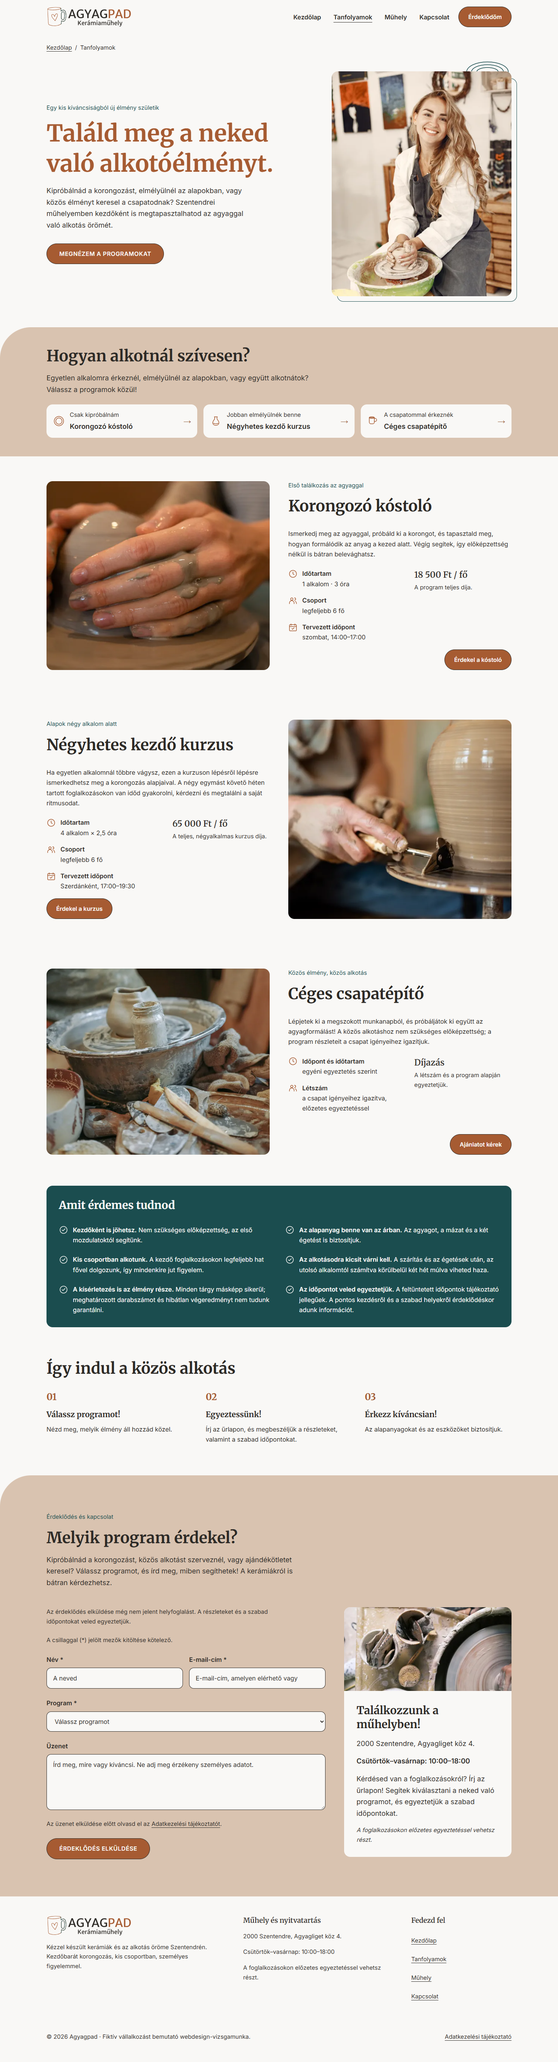
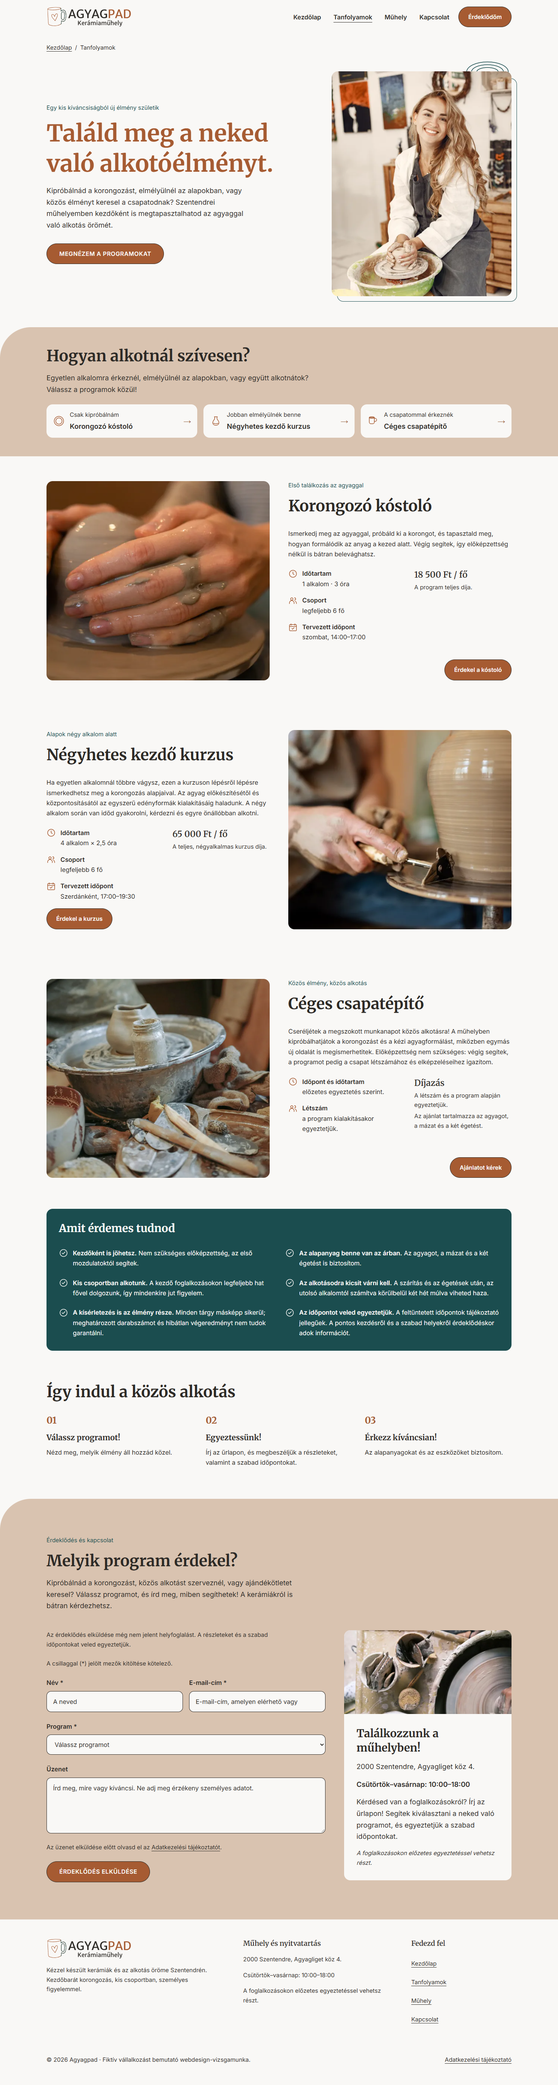
Finalize course content, consistent photo sizing and inquiry checks

diff --git a/tanfolyamok.html b/tanfolyamok.html
@@ -36,19 +36,21 @@
 <nav class="wrap breadcrumb" aria-label="Morzsanavigáció"><a href="koncepcio-1-udvari-muhely.html">Kezdőlap</a><span aria-hidden="true">/</span><span aria-current="page">Tanfolyamok</span></nav>
 <section class="wrap hero courses-hero" aria-labelledby="tanfolyamok-cim"><div><p class="eyebrow">Egy kis kíváncsiságból új élmény születik</p><h1 id="tanfolyamok-cim">Találd meg a neked való alkotóélményt.</h1><p class="intro">Kipróbálnád a korongozást, elmélyülnél az alapokban, vagy közös élményt keresel a csapatodnak? Szentendrei műhelyemben kezdőként is megtapasztalhatod az agyaggal való alkotás örömét.</p><div class="actions"><a class="button" href="#programvalaszto">Megnézem a programokat</a></div></div><figure class="photo-surround"><img class="photo hero-photo" src="images/webp/tanfolyam-resztvevo-800.webp" srcset="images/webp/tanfolyam-resztvevo-480.webp 480w, images/webp/tanfolyam-resztvevo-800.webp 800w, images/webp/tanfolyam-resztvevo-1200.webp 1200w, images/webp/tanfolyam-resztvevo-1600.webp 1600w" sizes="(min-width:1296px) 464px, (min-width:900px) 42vw, calc(100vw - 40px)" width="3840" height="5760" alt="Mosolygó résztvevő mindkét kezével agyagedényt formáz a korongon." fetchpriority="high" decoding="async"><svg class="pottery-lines" viewBox="0 0 120 80" fill="none" stroke="currentColor" stroke-width="1.5" aria-hidden="true" focusable="false"><ellipse cx="60" cy="40" rx="52" ry="25"/><ellipse cx="60" cy="40" rx="40" ry="18"/><ellipse cx="60" cy="40" rx="27" ry="11"/></svg></figure></section>
 <section class="program-selector" id="programvalaszto" aria-labelledby="programvalaszto-cim"><div class="wrap"><h2 id="programvalaszto-cim">Hogyan alkotnál szívesen?</h2><p class="selector-intro">Egyetlen alkalomra érkeznél, elmélyülnél az alapokban, vagy együtt alkotnátok? Válassz a programok közül!</p><nav class="program-nav" aria-label="Programválasztó"><a href="#korongozo-kostolo"><svg class="ceramic-icon" viewBox="0 0 32 32" fill="none" stroke="currentColor" stroke-width="1.5" stroke-linecap="round" stroke-linejoin="round" aria-hidden="true" focusable="false"><circle cx="16" cy="16" r="12"/><circle cx="16" cy="16" r="8"/></svg><span class="selector-copy"><span class="selector-intro-label">Csak kipróbálnám</span><strong>Korongozó kóstoló</strong></span><span class="selector-arrow" aria-hidden="true">→</span></a><a href="#kezdo-kurzus"><svg class="ceramic-icon" viewBox="0 0 32 32" fill="none" stroke="currentColor" stroke-width="1.5" stroke-linecap="round" stroke-linejoin="round" aria-hidden="true" focusable="false"><path d="M12 5h8m-7 0v5c0 2-5 5-5 10 0 4 3 7 8 7s8-3 8-7c0-5-5-8-5-10V5"/><path d="M10 22c3 1 9 1 12 0"/></svg><span class="selector-copy"><span class="selector-intro-label">Jobban elmélyülnék benne</span><strong>Négyhetes kezdő kurzus</strong></span><span class="selector-arrow" aria-hidden="true">→</span></a><a href="#ceges-csapatepito"><svg class="ceramic-icon" viewBox="0 0 32 32" fill="none" stroke="currentColor" stroke-width="1.5" stroke-linecap="round" stroke-linejoin="round" aria-hidden="true" focusable="false"><path d="M6 7h13v12a4 4 0 0 1-4 4h-5a4 4 0 0 1-4-4V7Z"/><path d="M19 9h2a4 4 0 0 1 0 8h-2"/><ellipse cx="12.5" cy="7" rx="6.5" ry="2"/></svg><span class="selector-copy"><span class="selector-intro-label">A csapatommal érkeznék</span><strong>Céges csapatépítő</strong></span><span class="selector-arrow" aria-hidden="true">→</span></a></nav></div></section>
+<div class="program-list">
 <section class="program-detail" id="korongozo-kostolo" aria-labelledby="korongozo-kostolo-cim"><div class="wrap program-layout"><figure class="detail-photo"><img class="photo" src="images/webp/korongozo-kostolo-800.webp" srcset="images/webp/korongozo-kostolo-480.webp 480w, images/webp/korongozo-kostolo-800.webp 800w, images/webp/korongozo-kostolo-1200.webp 1200w, images/webp/korongozo-kostolo-1600.webp 1600w" sizes="(min-width:1296px) 576px, (min-width:900px) calc(50vw - 72px), (min-width:768px) 576px, calc(100vw - 40px)" width="6000" height="4000" alt="Agyagot formázó kezek a fazekaskorongon." loading="lazy" decoding="async"></figure><div class="program-copy"><p class="eyebrow">Első találkozás az agyaggal</p><h2 id="korongozo-kostolo-cim">Korongozó kóstoló</h2><p class="course-description">Ismerkedj meg az agyaggal, próbáld ki a korongot, és tapasztald meg, hogyan formálódik az anyag a kezed alatt. Végig segítek, így előképzettség nélkül is bátran belevághatsz.</p><div class="program-information"><dl class="program-facts"><div><dt><svg class="course-icon" viewBox="0 0 24 24" fill="none" stroke="currentColor" stroke-width="1.5" stroke-linecap="round" stroke-linejoin="round" aria-hidden="true" focusable="false"><circle cx="12" cy="12" r="9"/><path d="M12 7v5l3 2"/></svg><span>Időtartam</span></dt><dd>1 alkalom · 3 óra</dd></div><div><dt><svg class="course-icon" viewBox="0 0 24 24" fill="none" stroke="currentColor" stroke-width="1.5" stroke-linecap="round" stroke-linejoin="round" aria-hidden="true" focusable="false"><circle cx="9" cy="8" r="3"/><path d="M3 20v-2a6 6 0 0 1 12 0v2m1-15a3 3 0 0 1 0 6m2 3a5 5 0 0 1 3 4v2"/></svg><span>Csoport</span></dt><dd>legfeljebb 6 fő</dd></div><div><dt><svg class="course-icon" viewBox="0 0 24 24" fill="none" stroke="currentColor" stroke-width="1.5" stroke-linecap="round" stroke-linejoin="round" aria-hidden="true" focusable="false"><rect x="3" y="5" width="18" height="16" rx="2"/><path d="M7 3v4m10-4v4M3 10h18m-12 5 2 2 4-4"/></svg><span>Tervezett időpont</span></dt><dd>szombat, 14:00–17:00</dd></div></dl><p class="price">18 500 Ft / fő<span class="price-detail">A program teljes díja.</span></p></div><a class="button program-cta" href="#kapcsolat" data-program="kostolo">Érdekel a kóstoló</a></div></div></section>
-<section class="program-detail program-reverse" id="kezdo-kurzus" aria-labelledby="kezdo-kurzus-cim"><div class="wrap program-layout"><figure class="detail-photo"><img class="photo" src="images/webp/4-hetes-kezdo-kurzus-800.webp" srcset="images/webp/4-hetes-kezdo-kurzus-480.webp 480w, images/webp/4-hetes-kezdo-kurzus-800.webp 800w, images/webp/4-hetes-kezdo-kurzus-1200.webp 1200w, images/webp/4-hetes-kezdo-kurzus-1600.webp 1600w" sizes="(min-width:1296px) 576px, (min-width:900px) calc(50vw - 72px), (min-width:768px) 576px, calc(100vw - 40px)" width="7999" height="5340" alt="A korongon formált edény alját szerszámmal igazítják." loading="lazy" decoding="async"></figure><div class="program-copy"><p class="eyebrow">Alapok négy alkalom alatt</p><h2 id="kezdo-kurzus-cim">Négyhetes kezdő kurzus</h2><p class="course-description">Ha egyetlen alkalomnál többre vágysz, ezen a kurzuson lépésről lépésre ismerkedhetsz meg a korongozás alapjaival. A négy egymást követő héten tartott foglalkozásokon van időd gyakorolni, kérdezni és megtalálni a saját ritmusodat.</p><div class="program-information"><dl class="program-facts"><div><dt><svg class="course-icon" viewBox="0 0 24 24" fill="none" stroke="currentColor" stroke-width="1.5" stroke-linecap="round" stroke-linejoin="round" aria-hidden="true" focusable="false"><circle cx="12" cy="12" r="9"/><path d="M12 7v5l3 2"/></svg><span>Időtartam</span></dt><dd>4 alkalom × 2,5 óra</dd></div><div><dt><svg class="course-icon" viewBox="0 0 24 24" fill="none" stroke="currentColor" stroke-width="1.5" stroke-linecap="round" stroke-linejoin="round" aria-hidden="true" focusable="false"><circle cx="9" cy="8" r="3"/><path d="M3 20v-2a6 6 0 0 1 12 0v2m1-15a3 3 0 0 1 0 6m2 3a5 5 0 0 1 3 4v2"/></svg><span>Csoport</span></dt><dd>legfeljebb 6 fő</dd></div><div><dt><svg class="course-icon" viewBox="0 0 24 24" fill="none" stroke="currentColor" stroke-width="1.5" stroke-linecap="round" stroke-linejoin="round" aria-hidden="true" focusable="false"><rect x="3" y="5" width="18" height="16" rx="2"/><path d="M7 3v4m10-4v4M3 10h18m-12 5 2 2 4-4"/></svg><span>Tervezett időpont</span></dt><dd>Szerdánként, 17:00–19:30</dd></div></dl><p class="price">65 000 Ft / fő<span class="price-detail">A teljes, négyalkalmas kurzus díja.</span></p></div><a class="button program-cta" href="#kapcsolat" data-program="kezdo-kurzus">Érdekel a kurzus</a></div></div></section>
-<section class="program-detail" id="ceges-csapatepito" aria-labelledby="ceges-csapatepito-cim"><div class="wrap program-layout"><figure class="detail-photo"><img class="photo" src="images/webp/ceges-csapatepito-800.webp" srcset="images/webp/ceges-csapatepito-480.webp 480w, images/webp/ceges-csapatepito-800.webp 800w, images/webp/ceges-csapatepito-1200.webp 1200w, images/webp/ceges-csapatepito-1600.webp 1600w" sizes="(min-width:1296px) 576px, (min-width:900px) calc(50vw - 72px), (min-width:768px) 576px, calc(100vw - 40px)" width="3624" height="5436" alt="Agyagedény a korongon, körülötte a műhely szerszámai." loading="lazy" decoding="async"></figure><div class="program-copy"><p class="eyebrow">Közös élmény, közös alkotás</p><h2 id="ceges-csapatepito-cim">Céges csapatépítő</h2><p class="course-description">Lépjetek ki a megszokott munkanapból, és próbáljátok ki együtt az agyagformálást! A közös alkotáshoz nem szükséges előképzettség; a program részleteit a csapat igényeihez igazítjuk.</p><div class="program-information"><dl class="program-facts"><div><dt><svg class="course-icon" viewBox="0 0 24 24" fill="none" stroke="currentColor" stroke-width="1.5" stroke-linecap="round" stroke-linejoin="round" aria-hidden="true" focusable="false"><circle cx="12" cy="12" r="9"/><path d="M12 7v5l3 2"/></svg><span>Időpont és időtartam</span></dt><dd>egyéni egyeztetés szerint</dd></div><div><dt><svg class="course-icon" viewBox="0 0 24 24" fill="none" stroke="currentColor" stroke-width="1.5" stroke-linecap="round" stroke-linejoin="round" aria-hidden="true" focusable="false"><circle cx="9" cy="8" r="3"/><path d="M3 20v-2a6 6 0 0 1 12 0v2m1-15a3 3 0 0 1 0 6m2 3a5 5 0 0 1 3 4v2"/></svg><span>Létszám</span></dt><dd>a csapat igényeihez igazítva, előzetes egyeztetéssel</dd></div></dl><p class="price">Díjazás<span class="price-detail">A létszám és a program alapján egyeztetjük.</span></p></div><a class="button program-cta" href="#kapcsolat" data-program="csapatepito">Ajánlatot kérek</a></div></div></section>
+<section class="program-detail program-reverse" id="kezdo-kurzus" aria-labelledby="kezdo-kurzus-cim"><div class="wrap program-layout"><figure class="detail-photo"><img class="photo" src="images/webp/4-hetes-kezdo-kurzus-800.webp" srcset="images/webp/4-hetes-kezdo-kurzus-480.webp 480w, images/webp/4-hetes-kezdo-kurzus-800.webp 800w, images/webp/4-hetes-kezdo-kurzus-1200.webp 1200w, images/webp/4-hetes-kezdo-kurzus-1600.webp 1600w" sizes="(min-width:1296px) 576px, (min-width:900px) calc(50vw - 72px), (min-width:768px) 576px, calc(100vw - 40px)" width="7999" height="5340" alt="A korongon formált edény alját szerszámmal igazítják." loading="lazy" decoding="async"></figure><div class="program-copy"><p class="eyebrow">Alapok négy alkalom alatt</p><h2 id="kezdo-kurzus-cim">Négyhetes kezdő kurzus</h2><p class="course-description">Ha egyetlen alkalomnál többre vágysz, ezen a kurzuson lépésről lépésre ismerkedhetsz meg a korongozás alapjaival. Az agyag előkészítésétől és központosításától az egyszerű edényformák kialakításáig haladunk. A négy alkalom során van időd gyakorolni, kérdezni és egyre önállóbban alkotni.</p><div class="program-information"><dl class="program-facts"><div><dt><svg class="course-icon" viewBox="0 0 24 24" fill="none" stroke="currentColor" stroke-width="1.5" stroke-linecap="round" stroke-linejoin="round" aria-hidden="true" focusable="false"><circle cx="12" cy="12" r="9"/><path d="M12 7v5l3 2"/></svg><span>Időtartam</span></dt><dd>4 alkalom × 2,5 óra</dd></div><div><dt><svg class="course-icon" viewBox="0 0 24 24" fill="none" stroke="currentColor" stroke-width="1.5" stroke-linecap="round" stroke-linejoin="round" aria-hidden="true" focusable="false"><circle cx="9" cy="8" r="3"/><path d="M3 20v-2a6 6 0 0 1 12 0v2m1-15a3 3 0 0 1 0 6m2 3a5 5 0 0 1 3 4v2"/></svg><span>Csoport</span></dt><dd>legfeljebb 6 fő</dd></div><div><dt><svg class="course-icon" viewBox="0 0 24 24" fill="none" stroke="currentColor" stroke-width="1.5" stroke-linecap="round" stroke-linejoin="round" aria-hidden="true" focusable="false"><rect x="3" y="5" width="18" height="16" rx="2"/><path d="M7 3v4m10-4v4M3 10h18m-12 5 2 2 4-4"/></svg><span>Tervezett időpont</span></dt><dd>Szerdánként, 17:00–19:30</dd></div></dl><p class="price">65 000 Ft / fő<span class="price-detail">A teljes, négyalkalmas kurzus díja.</span></p></div><a class="button program-cta" href="#kapcsolat" data-program="kezdo-kurzus">Érdekel a kurzus</a></div></div></section>
+<section class="program-detail" id="ceges-csapatepito" aria-labelledby="ceges-csapatepito-cim"><div class="wrap program-layout"><figure class="detail-photo"><img class="photo" src="images/webp/ceges-csapatepito-800.webp" srcset="images/webp/ceges-csapatepito-480.webp 480w, images/webp/ceges-csapatepito-800.webp 800w, images/webp/ceges-csapatepito-1200.webp 1200w, images/webp/ceges-csapatepito-1600.webp 1600w" sizes="(min-width:1296px) 576px, (min-width:900px) calc(50vw - 72px), (min-width:768px) 576px, calc(100vw - 40px)" width="3624" height="5436" alt="Agyagedény a korongon, körülötte a műhely szerszámai." loading="lazy" decoding="async"></figure><div class="program-copy"><p class="eyebrow">Közös élmény, közös alkotás</p><h2 id="ceges-csapatepito-cim">Céges csapatépítő</h2><p class="course-description">Cseréljétek a megszokott munkanapot közös alkotásra! A műhelyben kipróbálhatjátok a korongozást és a kézi agyagformálást, miközben egymás új oldalát is megismerhetitek. Előképzettség nem szükséges: végig segítek, a programot pedig a csapat létszámához és elképzeléseihez igazítom.</p><div class="program-information"><dl class="program-facts"><div><dt><svg class="course-icon" viewBox="0 0 24 24" fill="none" stroke="currentColor" stroke-width="1.5" stroke-linecap="round" stroke-linejoin="round" aria-hidden="true" focusable="false"><circle cx="12" cy="12" r="9"/><path d="M12 7v5l3 2"/></svg><span>Időpont és időtartam</span></dt><dd>előzetes egyeztetés szerint.</dd></div><div><dt><svg class="course-icon" viewBox="0 0 24 24" fill="none" stroke="currentColor" stroke-width="1.5" stroke-linecap="round" stroke-linejoin="round" aria-hidden="true" focusable="false"><circle cx="9" cy="8" r="3"/><path d="M3 20v-2a6 6 0 0 1 12 0v2m1-15a3 3 0 0 1 0 6m2 3a5 5 0 0 1 3 4v2"/></svg><span>Létszám</span></dt><dd>a program kialakításakor egyeztetjük.</dd></div></dl><p class="price">Díjazás<span class="price-detail">A létszám és a program alapján egyeztetjük.</span><span class="price-detail">Az ajánlat tartalmazza az agyagot, a mázat és a két égetést.</span></p></div><a class="button program-cta" href="#kapcsolat" data-program="csapatepito">Ajánlatot kérek</a></div></div></section>
+</div>
 <section class="courses-notes"><div class="wrap"><aside class="notes" aria-labelledby="tudnivalok">
           <h3 id="tudnivalok">Amit érdemes tudnod</h3>
-          <ul class="notes-grid"><li><svg class="note-icon" viewBox="0 0 24 24" fill="none" stroke="currentColor" stroke-width="1.5" aria-hidden="true" focusable="false"><circle cx="12" cy="12" r="9"/><path d="m8 12 2.5 2.5L16 9" stroke-linecap="round" stroke-linejoin="round"/></svg><span><strong>Kezdőként is jöhetsz.</strong> Nem szükséges előképzettség, az első mozdulatoktól segítünk.</span></li>
-<li><svg class="note-icon" viewBox="0 0 24 24" fill="none" stroke="currentColor" stroke-width="1.5" aria-hidden="true" focusable="false"><circle cx="12" cy="12" r="9"/><path d="m8 12 2.5 2.5L16 9" stroke-linecap="round" stroke-linejoin="round"/></svg><span><strong>Az alapanyag benne van az árban.</strong> Az agyagot, a mázat és a két égetést is biztosítjuk.</span></li>
+          <ul class="notes-grid"><li><svg class="note-icon" viewBox="0 0 24 24" fill="none" stroke="currentColor" stroke-width="1.5" aria-hidden="true" focusable="false"><circle cx="12" cy="12" r="9"/><path d="m8 12 2.5 2.5L16 9" stroke-linecap="round" stroke-linejoin="round"/></svg><span><strong>Kezdőként is jöhetsz.</strong> Nem szükséges előképzettség, az első mozdulatoktól segítek.</span></li>
+<li><svg class="note-icon" viewBox="0 0 24 24" fill="none" stroke="currentColor" stroke-width="1.5" aria-hidden="true" focusable="false"><circle cx="12" cy="12" r="9"/><path d="m8 12 2.5 2.5L16 9" stroke-linecap="round" stroke-linejoin="round"/></svg><span><strong>Az alapanyag benne van az árban.</strong> Az agyagot, a mázat és a két égetést is biztosítom.</span></li>
 <li><svg class="note-icon" viewBox="0 0 24 24" fill="none" stroke="currentColor" stroke-width="1.5" aria-hidden="true" focusable="false"><circle cx="12" cy="12" r="9"/><path d="m8 12 2.5 2.5L16 9" stroke-linecap="round" stroke-linejoin="round"/></svg><span><strong>Kis csoportban alkotunk.</strong> A kezdő foglalkozásokon legfeljebb hat fővel dolgozunk, így mindenkire jut figyelem.</span></li>
 <li><svg class="note-icon" viewBox="0 0 24 24" fill="none" stroke="currentColor" stroke-width="1.5" aria-hidden="true" focusable="false"><circle cx="12" cy="12" r="9"/><path d="m8 12 2.5 2.5L16 9" stroke-linecap="round" stroke-linejoin="round"/></svg><span><strong>Az alkotásodra kicsit várni kell.</strong> A szárítás és az égetések után, az utolsó alkalomtól számítva körülbelül két hét múlva viheted haza.</span></li>
-<li><svg class="note-icon" viewBox="0 0 24 24" fill="none" stroke="currentColor" stroke-width="1.5" aria-hidden="true" focusable="false"><circle cx="12" cy="12" r="9"/><path d="m8 12 2.5 2.5L16 9" stroke-linecap="round" stroke-linejoin="round"/></svg><span><strong>A kísérletezés is az élmény része.</strong> Minden tárgy másképp sikerül; meghatározott darabszámot és hibátlan végeredményt nem tudunk garantálni.</span></li>
-<li><svg class="note-icon" viewBox="0 0 24 24" fill="none" stroke="currentColor" stroke-width="1.5" aria-hidden="true" focusable="false"><circle cx="12" cy="12" r="9"/><path d="m8 12 2.5 2.5L16 9" stroke-linecap="round" stroke-linejoin="round"/></svg><span><strong>Az időpontot veled egyeztetjük.</strong> A feltüntetett időpontok tájékoztató jellegűek. A pontos kezdésről és a szabad helyekről érdeklődéskor adunk információt.</span></li></ul>
+<li><svg class="note-icon" viewBox="0 0 24 24" fill="none" stroke="currentColor" stroke-width="1.5" aria-hidden="true" focusable="false"><circle cx="12" cy="12" r="9"/><path d="m8 12 2.5 2.5L16 9" stroke-linecap="round" stroke-linejoin="round"/></svg><span><strong>A kísérletezés is az élmény része.</strong> Minden tárgy másképp sikerül; meghatározott darabszámot és hibátlan végeredményt nem tudok garantálni.</span></li>
+<li><svg class="note-icon" viewBox="0 0 24 24" fill="none" stroke="currentColor" stroke-width="1.5" aria-hidden="true" focusable="false"><circle cx="12" cy="12" r="9"/><path d="m8 12 2.5 2.5L16 9" stroke-linecap="round" stroke-linejoin="round"/></svg><span><strong>Az időpontot veled egyeztetjük.</strong> A feltüntetett időpontok tájékoztató jellegűek. A pontos kezdésről és a szabad helyekről érdeklődéskor adok információt.</span></li></ul>
         </aside></div></section>
-<section class="course-process wrap" aria-labelledby="folyamat-cim"><h2 id="folyamat-cim">Így indul a közös alkotás</h2><ol><li><h3>Válassz programot!</h3><p>Nézd meg, melyik élmény áll hozzád közel.</p></li><li><h3>Egyeztessünk!</h3><p>Írj az űrlapon, és megbeszéljük a részleteket, valamint a szabad időpontokat.</p></li><li><h3>Érkezz kíváncsian!</h3><p>Az alapanyagokat és az eszközöket biztosítjuk.</p></li></ol></section>
+<section class="course-process wrap" aria-labelledby="folyamat-cim"><h2 id="folyamat-cim">Így indul a közös alkotás</h2><ol><li><h3>Válassz programot!</h3><p>Nézd meg, melyik élmény áll hozzád közel.</p></li><li><h3>Egyeztessünk!</h3><p>Írj az űrlapon, és megbeszéljük a részleteket, valamint a szabad időpontokat.</p></li><li><h3>Érkezz kíváncsian!</h3><p>Az alapanyagokat és az eszközöket biztosítom.</p></li></ol></section>
 <section class="chapter" id="kapcsolat" aria-labelledby="kapcsolatcim">
       <div class="wrap">
         <header class="chapter-heading">

diff --git a/koncepcio-1-udvari-muhely.html b/koncepcio-1-udvari-muhely.html
@@ -54,12 +54,12 @@
         </div>
         <aside class="notes" aria-labelledby="tudnivalok">
           <h3 id="tudnivalok">Amit érdemes tudnod</h3>
-          <ul class="notes-grid"><li><svg class="note-icon" viewBox="0 0 24 24" fill="none" stroke="currentColor" stroke-width="1.5" aria-hidden="true" focusable="false"><circle cx="12" cy="12" r="9"/><path d="m8 12 2.5 2.5L16 9" stroke-linecap="round" stroke-linejoin="round"/></svg><span><strong>Kezdőként is jöhetsz.</strong> Nem szükséges előképzettség, az első mozdulatoktól segítünk.</span></li>
-<li><svg class="note-icon" viewBox="0 0 24 24" fill="none" stroke="currentColor" stroke-width="1.5" aria-hidden="true" focusable="false"><circle cx="12" cy="12" r="9"/><path d="m8 12 2.5 2.5L16 9" stroke-linecap="round" stroke-linejoin="round"/></svg><span><strong>Az alapanyag benne van az árban.</strong> Az agyagot, a mázat és a két égetést is biztosítjuk.</span></li>
+          <ul class="notes-grid"><li><svg class="note-icon" viewBox="0 0 24 24" fill="none" stroke="currentColor" stroke-width="1.5" aria-hidden="true" focusable="false"><circle cx="12" cy="12" r="9"/><path d="m8 12 2.5 2.5L16 9" stroke-linecap="round" stroke-linejoin="round"/></svg><span><strong>Kezdőként is jöhetsz.</strong> Nem szükséges előképzettség, az első mozdulatoktól segítek.</span></li>
+<li><svg class="note-icon" viewBox="0 0 24 24" fill="none" stroke="currentColor" stroke-width="1.5" aria-hidden="true" focusable="false"><circle cx="12" cy="12" r="9"/><path d="m8 12 2.5 2.5L16 9" stroke-linecap="round" stroke-linejoin="round"/></svg><span><strong>Az alapanyag benne van az árban.</strong> Az agyagot, a mázat és a két égetést is biztosítom.</span></li>
 <li><svg class="note-icon" viewBox="0 0 24 24" fill="none" stroke="currentColor" stroke-width="1.5" aria-hidden="true" focusable="false"><circle cx="12" cy="12" r="9"/><path d="m8 12 2.5 2.5L16 9" stroke-linecap="round" stroke-linejoin="round"/></svg><span><strong>Kis csoportban alkotunk.</strong> A kezdő foglalkozásokon legfeljebb hat fővel dolgozunk, így mindenkire jut figyelem.</span></li>
 <li><svg class="note-icon" viewBox="0 0 24 24" fill="none" stroke="currentColor" stroke-width="1.5" aria-hidden="true" focusable="false"><circle cx="12" cy="12" r="9"/><path d="m8 12 2.5 2.5L16 9" stroke-linecap="round" stroke-linejoin="round"/></svg><span><strong>Az alkotásodra kicsit várni kell.</strong> A szárítás és az égetések után, az utolsó alkalomtól számítva körülbelül két hét múlva viheted haza.</span></li>
-<li><svg class="note-icon" viewBox="0 0 24 24" fill="none" stroke="currentColor" stroke-width="1.5" aria-hidden="true" focusable="false"><circle cx="12" cy="12" r="9"/><path d="m8 12 2.5 2.5L16 9" stroke-linecap="round" stroke-linejoin="round"/></svg><span><strong>A kísérletezés is az élmény része.</strong> Minden tárgy másképp sikerül; meghatározott darabszámot és hibátlan végeredményt nem tudunk garantálni.</span></li>
-<li><svg class="note-icon" viewBox="0 0 24 24" fill="none" stroke="currentColor" stroke-width="1.5" aria-hidden="true" focusable="false"><circle cx="12" cy="12" r="9"/><path d="m8 12 2.5 2.5L16 9" stroke-linecap="round" stroke-linejoin="round"/></svg><span><strong>Az időpontot veled egyeztetjük.</strong> A feltüntetett időpontok tájékoztató jellegűek. A pontos kezdésről és a szabad helyekről érdeklődéskor adunk információt.</span></li></ul>
+<li><svg class="note-icon" viewBox="0 0 24 24" fill="none" stroke="currentColor" stroke-width="1.5" aria-hidden="true" focusable="false"><circle cx="12" cy="12" r="9"/><path d="m8 12 2.5 2.5L16 9" stroke-linecap="round" stroke-linejoin="round"/></svg><span><strong>A kísérletezés is az élmény része.</strong> Minden tárgy másképp sikerül; meghatározott darabszámot és hibátlan végeredményt nem tudok garantálni.</span></li>
+<li><svg class="note-icon" viewBox="0 0 24 24" fill="none" stroke="currentColor" stroke-width="1.5" aria-hidden="true" focusable="false"><circle cx="12" cy="12" r="9"/><path d="m8 12 2.5 2.5L16 9" stroke-linecap="round" stroke-linejoin="round"/></svg><span><strong>Az időpontot veled egyeztetjük.</strong> A feltüntetett időpontok tájékoztató jellegűek. A pontos kezdésről és a szabad helyekről érdeklődéskor adok információt.</span></li></ul>
         </aside>
       </div>
     </section>

diff --git a/assets/tanfolyamok.css b/assets/tanfolyamok.css
@@ -64,7 +64,10 @@
  .courses-page .course-process{padding-block:5rem}
 }
 @media(min-width:75rem){
- .courses-page .program-layout{grid-template-columns:repeat(2,minmax(0,1fr));gap:3rem;align-items:stretch}
+ /* A három sor a leghosszabb tartalomhoz nő, merev magasság nélkül. */
+ .courses-page .program-list{display:grid;grid-auto-rows:1fr}
+ .courses-page .program-detail{display:flex;flex-direction:column}
+ .courses-page .program-layout{flex:1;grid-template-columns:repeat(2,minmax(0,1fr));gap:3rem;align-items:stretch}
  .courses-page .program-layout .detail-photo{align-self:stretch}
  .courses-page .program-copy{display:flex;flex-direction:column;align-self:stretch}
  .courses-page .program-information{margin-bottom:1.125rem}

diff --git a/tervezes/szovegek.md b/tervezes/szovegek.md
@@ -1,6 +1,6 @@
 # Agyagpad – aktuális weboldalszövegek
 
-Verzió: 3.4 · 2026. november 14.
+Verzió: 3.5 · 2026. november 14.
 Forrás: a főoldal és a tanfolyamok aloldal tényleges HTML-tartalma, a felhasználó november 14-i szövegei alapján. Az előző változatot ez a dokumentum váltja fel.
 
 Az Agyagpad és Fehér Dóra fiktív. A 2009-es indulás, a népi iparművész megjelölés és a három számadat a felhasználó által újonnan megadott karakteradat; nem valós személy ellenőrzött szakmai referenciája. Az idővonal kikerült.
@@ -53,12 +53,12 @@ Az élményjelölések a leírás és a link között jelennek meg, terrakotta v
 
 ## Amit érdemes tudnod
 
-- Kezdőként is jöhetsz. Nem szükséges előképzettség, az első mozdulatoktól segítünk.
-- Az alapanyag benne van az árban. Az agyagot, a mázat és a két égetést is biztosítjuk.
+- Kezdőként is jöhetsz. Nem szükséges előképzettség, az első mozdulatoktól segítek.
+- Az alapanyag benne van az árban. Az agyagot, a mázat és a két égetést is biztosítom.
 - Kis csoportban alkotunk. A kezdő foglalkozásokon legfeljebb hat fővel dolgozunk, így mindenkire jut figyelem.
 - Az alkotásodra kicsit várni kell. A szárítás és az égetések után, az utolsó alkalomtól számítva körülbelül két hét múlva viheted haza.
-- A kísérletezés is az élmény része. Minden tárgy másképp sikerül; meghatározott darabszámot és hibátlan végeredményt nem tudunk garantálni.
-- Az időpontot veled egyeztetjük. A feltüntetett időpontok tájékoztató jellegűek. A pontos kezdésről és a szabad helyekről érdeklődéskor adunk információt.
+- A kísérletezés is az élmény része. Minden tárgy másképp sikerül; meghatározott darabszámot és hibátlan végeredményt nem tudok garantálni.
+- Az időpontot veled egyeztetjük. A feltüntetett időpontok tájékoztató jellegűek. A pontos kezdésről és a szabad helyekről érdeklődéskor adok információt.
 
 A blokk közvetlenül a kártyák alatt marad, azok teljes szélességével, türkiz háttéren törtfehér elemekkel. Két oszlop asztalon, egy mobilon. Ugyanez a hat pont szerepel a tanfolyamok aloldalon.
 
@@ -170,7 +170,7 @@ Ismerkedj meg az agyaggal, próbáld ki a korongot, és tapasztald meg, hogyan f
 
 Kicker: Alapok négy alkalom alatt
 
-Ha egyetlen alkalomnál többre vágysz, ezen a kurzuson lépésről lépésre ismerkedhetsz meg a korongozás alapjaival. A négy egymást követő héten tartott foglalkozásokon van időd gyakorolni, kérdezni és megtalálni a saját ritmusodat.
+Ha egyetlen alkalomnál többre vágysz, ezen a kurzuson lépésről lépésre ismerkedhetsz meg a korongozás alapjaival. Az agyag előkészítésétől és központosításától az egyszerű edényformák kialakításáig haladunk. A négy alkalom során van időd gyakorolni, kérdezni és egyre önállóbban alkotni.
 
 - Időtartam: 4 alkalom × 2,5 óra
 - Csoport: legfeljebb 6 fő
@@ -182,11 +182,11 @@ Ha egyetlen alkalomnál többre vágysz, ezen a kurzuson lépésről lépésre i
 
 Kicker: Közös élmény, közös alkotás
 
-Lépjetek ki a megszokott munkanapból, és próbáljátok ki együtt az agyagformálást! A közös alkotáshoz nem szükséges előképzettség; a program részleteit a csapat igényeihez igazítjuk.
+Cseréljétek a megszokott munkanapot közös alkotásra! A műhelyben kipróbálhatjátok a korongozást és a kézi agyagformálást, miközben egymás új oldalát is megismerhetitek. Előképzettség nem szükséges: végig segítek, a programot pedig a csapat létszámához és elképzeléseihez igazítom.
 
-- Időpont és időtartam: egyéni egyeztetés szerint
-- Létszám: a csapat igényeihez igazítva, előzetes egyeztetéssel
-- Ár: DíjazásA létszám és a program alapján egyeztetjük.
+- Időpont és időtartam: előzetes egyeztetés szerint.
+- Létszám: a program kialakításakor egyeztetjük.
+- Ár: DíjazásA létszám és a program alapján egyeztetjük.Az ajánlat tartalmazza az agyagot, a mázat és a két égetést.
 - Ajánlatot kérek: `#kapcsolat`
 
 A Tanfolyamok oldal önálló érdeklődési űrlapot kapott. A három programgomb helyben választja ki a programot, és megőrzi a kitöltött nevet, e-mailt és üzenetet. A hero résztvevői stock illusztráció, nem Fehér Dóra portréja. A teljes aloldali szerkezet és a fotókivágás: tanfolyamok-terv.md.

diff --git a/ellenorzes/tanfolyamok-lezaras.md b/ellenorzes/tanfolyamok-lezaras.md
@@ -1,0 +1,33 @@
+# Tanfolyamok aloldal – lezárási ellenőrzés
+
+2026. november 14. A felhasználó végső pontosításai alapján.
+
+## Elvégzett módosítások
+
+- A négyhetes és a céges program leírása a megadott szövegre cserélve. A kurzus időpontja: Szerdánként, 17:00–19:30; időtartama 4 alkalom × 2,5 óra.
+- Asztalon a gombok a fotótól távolabbi szélen, a fotó alsó éléhez igazodnak. Közös, tartalomhoz növő grid-sorok és flexoszlopok biztosítják az egyforma fotóméreteket. Nincs merev szövegmagasság vagy programonként külön margó.
+- Mobilon a kép után a szöveg következik; a gomb a tartalom után balra jelenik meg. A kép magassága nincs a szövegéhez kötve.
+- Díjazás: 22 px, 600-as súly; adatértékek: 16 px. A díjazás mellett nincs ikon.
+- A céges ajánlat az agyagot, a mázat és a két égetést is tartalmazza. A hatfős korlát csak a kezdő foglalkozásokra vonatkozik.
+- Dóra szolgáltatói megszólalásai egyes számúak. A főoldalon kizárólag a közös tudnivalók négy mondatának nyelvi egységesítése történt; a közös alkotást és egyeztetést jelölő többes szám megmaradt.
+- Az űrlap opciói és értékei változatlanok. Az Ajándékozás vagy egyéb érdeklődés eredetileg is egy összevont opció; nem került bele új választási lehetőség.
+
+## Ellenőrzések eredménye
+
+- 11 nézet sikeres: 320, 390, 768, 900, 1024, 1100, 1199, 1200 és 1440 px; valamint 390 és 1440 px mellett kétszeres szövegméret.
+- Nincs vízszintes túlcsordulás vagy böngészős betöltési hiba. A képkivágások képernyőképeken is ellenőrizve.
+- Azonos asztali fotóméretek, alsó és külső gombigazítás; mobil kép–szöveg sorrend és balra igazított gombok: sikeres.
+- Belső hivatkozások, billentyűzetes kártya- és programgomb-navigáció, látható fókusz, mobilmenü és Escape, ugrólink: sikeres.
+- A három programgomb a helyi űrlapot éri el, a helyes programmal; a kitöltött név, e-mail és üzenet megmarad.
+- Kötelező mezők, hibás e-mail, magyar mezőhibák: sikeres.
+- Mindkét oldali űrlap szimulált HTTP 500, hálózati hiba, folyamatban lévő és pozitív fogadói válasszal tesztelt. Csak a pozitív válasz után jelenik meg siker; hibánál megmaradnak az adatok, dupla beküldés nincs.
+
+Bizonyítékok: tanfolyamok-ellenorzes.json, tanfolyamok-urlap-ellenorzes.json, urlap-ellenorzes.json; képek a kepernyokepek mappában és a beadas/jelenlegi-oldal alatt.
+
+## Fennmaradó üzembehelyezési feladat
+
+**Az éles üzenettovábbítás és az e-mail-kézbesítés nincs igazolva.** Az assets/form-config.js jelenleg enabled:false és üres allowedHosts beállítást tartalmaz, a felhasználó korábbi döntése szerint. Ez nem javítható pusztán helyi teszttel.
+
+Szükséges: élő Netlify-projekt és HTTPS-cím, aktivált/felismert Netlify Forms fogadó, engedélyezett tárhelynév, értesítési e-mail-cím és végleges adatkezelői adatok. Ezután éles próbaüzenet szükséges, ellenőrizve a beküldési listában és a fogadó postaládában. Részletek: tervezes/urlap-beallitas.md.
+
+A helyi és szimulált ellenőrzések során további hiba nem maradt. A dizájn ebben az állapotban lezárva.

diff --git a/tervezes/design-system.md b/tervezes/design-system.md
@@ -1,6 +1,6 @@
 # Agyagpad – design system
 
-Verzió: 4.10 · 2026. november 14.
+Verzió: 4.11 · 2026. november 14.
 Állapot: az Udvari műhely aktuális specifikációja. Kiindulás: a jóváhagyott 16527e0 változat; november 14-i tartalmi továbbfejlesztés, kártyaélménysorok, Dóra-számadatok és előkészített valódi űrlapküldés. A korábbi türkiz gombos irányt ez a dokumentum felülírja.
 
 ## Források és hatókör
@@ -176,3 +176,7 @@ A cikkcakkos, kétoszlopos programelrendezés 1200 px-től jelenik meg, egyforma
 Asztalon (1200 px-től) a program szövegoszlopa flexoszlop, a CTA a fennmaradó térrel alulra kerül. A kóstoló és a céges program gombja a jobb szélre, a fordított kurzusblokk gombja balra igazodik, így mindig a fotótól távolabbi szélen zár. A grid sorához a fotó és a szöveg egyaránt nyúlik; a 6:5 alapkeret magasabb szöveghez alkalmazkodhat. Az adatrész után legalább 18 px marad, külön programonkénti margó nélkül. Ez felülírja az előző, minden nézetben balra igazított, fotótól független gombelrendezést.
 
 A díjazás 22 px/600, a gyakorlati adatértékek 16 px-esek; ár mellett nincs ikon. Az időpont Szerdánként, 17:00–19:30; a leírás rögzíti a négy egymást követő hetet. 1200 px alatt nincs alsó fotóigazítás, a gomb a tartalom után balra, a feliratához igazodó szélességgel jelenik meg.
+
+### Lezárt programbemutatók
+
+Az asztali programsorok közös, a leghosszabb szöveghez növekvő rácssormagasságot kapnak (grid-auto-rows:1fr); a három fotó szélessége és magassága megegyezik. Nincs merev szövegmagasság vagy programonkénti margó. A gombok alsó éle a fotóval egyezik, a fotótól távolabbi oldalon. Mobilon a fotó 6:5 arányú önálló elem, a gomb a tartalom után balra kerül. A két új programleírás a szovegek.md 3.5-ben szerepel. A közös tudnivalók szolgáltatói megszólalásai egyes számúak; a főoldalnak csak ez a négy mondata változott. A céges ajánlat tartalmazza az agyagot, a mázat és a két égetést, létszáma egyeztetett. Az űrlapopciók változatlanok, az ajándékozás és egyéb érdeklődés továbbra is egy közös opció. Ellenőrzési összegzés: ellenorzes/tanfolyamok-lezaras.md. További designmódosítás nem része ennek a lezárásnak.

diff --git a/.webprojekt/brief.md b/.webprojekt/brief.md
@@ -1,6 +1,6 @@
 # Projektbrief: Agyagpad kerámiaműhely
 
-Frissítve: 2026. november 14. Aktuális tartalmi forrás: szovegek.md 3.4; arculat: design-system.md 4.10.
+Frissítve: 2026. november 14. Aktuális tartalmi forrás: szovegek.md 3.5; arculat: design-system.md 4.11.
 
 ## Ügyfél és keret
 

diff --git a/tervezes/agyagpad-projektbrief.md b/tervezes/agyagpad-projektbrief.md
@@ -1,6 +1,6 @@
 # Projektbrief: Agyagpad kerámiaműhely
 
-Frissítve: 2026. november 14. Aktuális tartalmi forrás: szovegek.md 3.4; arculat: design-system.md 4.10.
+Frissítve: 2026. november 14. Aktuális tartalmi forrás: szovegek.md 3.5; arculat: design-system.md 4.11.
 
 ## Ügyfél és keret
 
